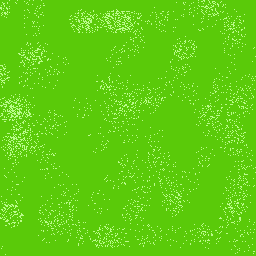
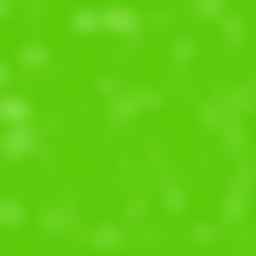
Blurred background image so it didn't look so horrible and added script for animating any sprite renderer (used now for bird enemies making them the crappy bird guy flapping their wings.

diff --git a/Assets/Scripts/SimpleAnimator.cs b/Assets/Scripts/SimpleAnimator.cs
@@ -1,0 +1,23 @@
+using UnityEngine;
+using System.Linq;
+
+namespace Assets.Scripts
+{
+    public class SimpleAnimator : MonoBehaviour
+    {
+        public Sprite[] Frames;
+        private int _frame;
+        public int SpriteSpeed;
+        private int _currentSpriteSpeed;
+
+        void Update()
+        {
+            if (_currentSpriteSpeed-- <= 0)
+            {
+                _currentSpriteSpeed = SpriteSpeed;
+                if (_frame++ >= Frames.Count() - 1) _frame = 0;
+                GetComponent<SpriteRenderer>().sprite = Frames[_frame];
+            }
+        }
+    }
+}
